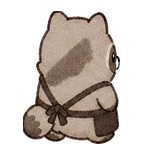
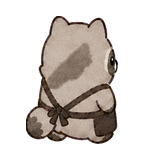
Fix blacksmith raccoon directions and alignment

diff --git a/docs/art/image-archive.html b/docs/art/image-archive.html
@@ -2141,15 +2141,15 @@
         };
       }))),
 
-      ...['A', 'B', 'C', 'D'].map((type) => ({
+      ...[['A', 'P02'], ['B', 'P03'], ['C', 'P02'], ['D', 'P03']].map(([type, revision]) => ({
         c: 'clerks', shop: '대장간', archive: true,
         label: `대장간 일꾼 완성형 원화 · ${type}타입 · 1~3단 × 대각선 4방향`,
-        file: `CLERK-SMITH-TYPE-${type}-GROWTH-DIAGONALS-V0.1-P01.png`, icon: '🦝',
+        file: `CLERK-SMITH-TYPE-${type}-GROWTH-DIAGONALS-V0.1-${revision}.png`, icon: '🦝',
         size: '승급·방향 원화',
-        actual: '1536×1024 RGB 검토 시트 · 1단 황토색 면 앞치마 / 2단 갈색 가죽 앞치마 / 3단 멜빵형 가죽 앞치마 · ↙ ↘ ↖ ↗ · 손 도구 없음',
+        actual: '1536×1024 RGB 수정 시트 · 귀·발·몸 중심 블루프린트 정렬 · 1단 황토색 면 / 2단 갈색 가죽 / 3단 멜빵형 가죽 앞치마 · ↙ ↘ ↖ ↗',
         status: 'draft', priority: 10,
-        src: `generated/CLERK-SMITH-TYPE-${type}-GROWTH-DIAGONALS-V0.1-P01.png`,
-        path: `docs/art/generated/CLERK-SMITH-TYPE-${type}-GROWTH-DIAGONALS-V0.1-P01.png`
+        src: `generated/CLERK-SMITH-TYPE-${type}-GROWTH-DIAGONALS-V0.1-${revision}.png`,
+        path: `docs/art/generated/CLERK-SMITH-TYPE-${type}-GROWTH-DIAGONALS-V0.1-${revision}.png`
       })),
 
       {

diff --git a/docs/art/IMAGE_ARCHIVE.md b/docs/art/IMAGE_ARCHIVE.md
@@ -719,16 +719,16 @@
 
 <table>
   <tr>
-    <td align="center"><img src="./generated/CLERK-SMITH-TYPE-A-GROWTH-DIAGONALS-V0.1-P01.png" width="360" alt="대장간 점장 A타입 1~3단 대각선 네 방향"></td>
-    <td align="center"><img src="./generated/CLERK-SMITH-TYPE-B-GROWTH-DIAGONALS-V0.1-P01.png" width="360" alt="대장간 점장 B타입 1~3단 대각선 네 방향"></td>
+    <td align="center"><img src="./generated/CLERK-SMITH-TYPE-A-GROWTH-DIAGONALS-V0.1-P02.png" width="360" alt="대장간 점장 A타입 1~3단 대각선 네 방향 수정본"></td>
+    <td align="center"><img src="./generated/CLERK-SMITH-TYPE-B-GROWTH-DIAGONALS-V0.1-P03.png" width="360" alt="대장간 점장 B타입 1~3단 대각선 네 방향 수정본"></td>
   </tr>
   <tr>
     <td><strong>A타입 · 초안</strong><br>황토색 면 → 갈색 가죽 → 멜빵형 가죽 앞치마.</td>
     <td><strong>B타입 · 초안</strong><br>같은 승급 규칙, B타입 비대칭 털 무늬.</td>
   </tr>
   <tr>
-    <td align="center"><img src="./generated/CLERK-SMITH-TYPE-C-GROWTH-DIAGONALS-V0.1-P01.png" width="360" alt="대장간 점장 C타입 1~3단 대각선 네 방향"></td>
-    <td align="center"><img src="./generated/CLERK-SMITH-TYPE-D-GROWTH-DIAGONALS-V0.1-P01.png" width="360" alt="대장간 점장 D타입 1~3단 대각선 네 방향"></td>
+    <td align="center"><img src="./generated/CLERK-SMITH-TYPE-C-GROWTH-DIAGONALS-V0.1-P02.png" width="360" alt="대장간 점장 C타입 1~3단 대각선 네 방향 수정본"></td>
+    <td align="center"><img src="./generated/CLERK-SMITH-TYPE-D-GROWTH-DIAGONALS-V0.1-P03.png" width="360" alt="대장간 점장 D타입 1~3단 대각선 네 방향 수정본"></td>
   </tr>
   <tr>
     <td><strong>C타입 · 초안</strong><br>손에 든 물건 없이 앞치마 재료만 성장.</td>
@@ -741,6 +741,6 @@
 ### 런타임 24장 분리
 
 <table>
-  <tr><td align="center"><img src="./generated/SMITH-CLERK-RUNTIME-24-PREVIEW-V0.1.png" width="900" alt="대장간 일꾼 A D 무늬 1 3단 옆 뒤 런타임 24장"></td></tr>
-  <tr><td><strong>Generated · LOG-SMITH-COMPLETE-002</strong><br>A~D 각 행에서 1단 옆·뒤 → 2단 옆·뒤 → 3단 옆·뒤 순서다. ↘ 원화는 side, ↗ 원화는 back이며 반대쪽은 코드가 뒤집는다. 각 파일은 144×144 RGBA이며 발끝 아래 변·가로 정중앙 규칙을 통과했다.</td></tr>
+  <tr><td align="center"><img src="./generated/SMITH-CLERK-RUNTIME-24-PREVIEW-V0.2.png" width="900" alt="방향 귀 발 위치를 수정한 대장간 일꾼 A D 무늬 1 3단 옆 뒤 런타임 24장"></td></tr>
+  <tr><td><strong>Revised · LOG-SMITH-COMPLETE-003</strong><br>가까운 두 열을 ↙·↘로 분리하고 귀·발·몸 중심을 블루프린트에 맞췄다. 수정된 ↘ 원화는 side, ↗ 원화는 back이며 반대쪽은 코드가 뒤집는다. 24장 모두 144×144 RGBA, 발끝 y=143, 중심 오차 1px 이내를 통과했다.</td></tr>
 </table>

diff --git a/docs/art/05_GENERATION_LOG.md b/docs/art/05_GENERATION_LOG.md
@@ -2108,3 +2108,26 @@
 - 발끝의 마지막 불투명 픽셀은 모두 y=143이며, 가로 중심 오차는 최대 0.5px다.
 - 파일명은 `smith-<a~d>-<side|back>[-1|-2].png`이다.
 - 현재 상태: `초안`. 최신 기능 로더 계약과 파일명이 일치하며 실제 마을 이동 화면에서 방향 판독을 검수한다.
+
+---
+
+## LOG-SMITH-COMPLETE-003 · 대장간 A~D 방향·귀·발 정렬 수정
+
+- 날짜: 2026-08-26
+- 수정 원화: A `P02`, B `P03`, C `P02`, D `P03`
+- 런타임 미리보기: `generated/SMITH-CLERK-RUNTIME-24-PREVIEW-V0.2.png`
+- 도구: built-in image generation/edit + Sharp 기반 런타임 분리
+- 결과: `Revised / Draft`
+
+### 관찰
+
+- 가까운 두 열이 같은 방향처럼 보이던 문제를 고쳐 `↙`·`↘`로 분리했다.
+- 두 번째 열은 코·눈·꼬리·발·앞치마 묶음이 첫 번째 열과 반대쪽에 놓인다.
+- 귀 전체가 캔버스 안에 들어오고 발은 배 아래에서 같은 접지선을 사용하도록 신체 블루프린트에 맞췄다.
+- 수정 원화에서 게임용 24장을 다시 파생했다.
+
+### 판정
+
+- 24/24장 모두 `144×144 RGBA`다.
+- 발끝은 모두 `y=143`, 가로 중심 오차는 1px 이내이며 귀 위쪽 잘림이 없다.
+- 현재 상태: `초안`. 실제 Godot 이동 화면에서 좌우 반전과 앞뒤 판독을 최종 확인한다.
